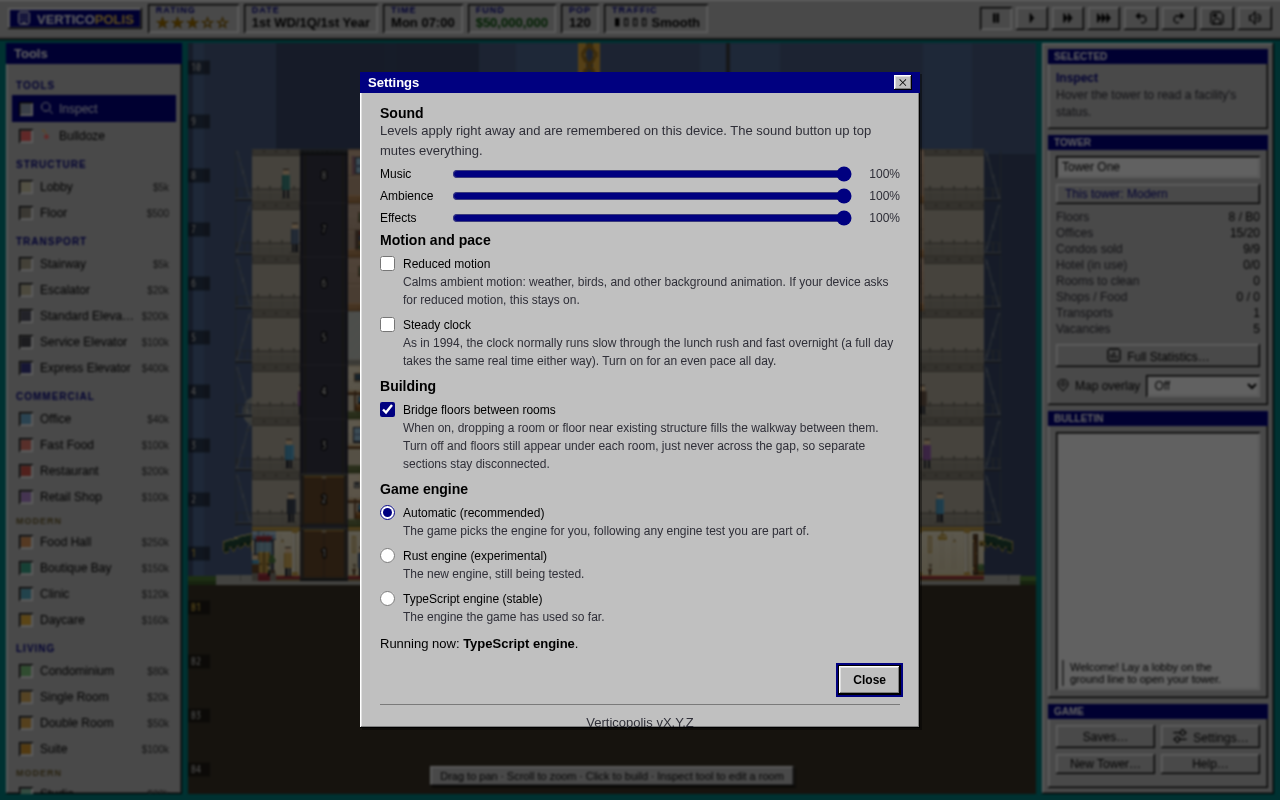
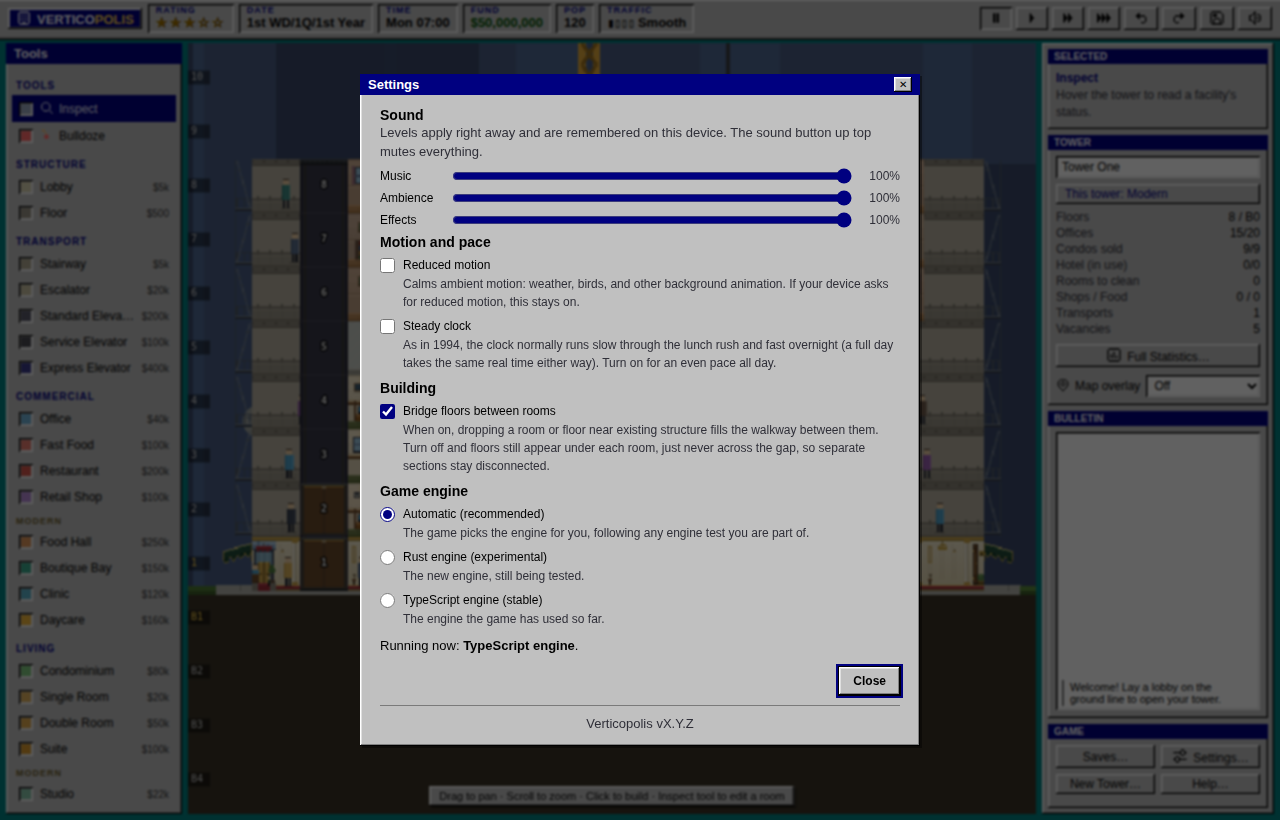
Fix settings screenshot clipping checks and refresh affected baselines

diff --git a/scripts/scenes/dialogPinShots.ts b/scripts/scenes/dialogPinShots.ts
@@ -22,35 +22,7 @@
  * nothing.
  */
 import { type Shot } from "../screenshot-env.ts";
-
-/** Assert the currently open Settings modal is fully visible inside its scroll
- *  box, so the Game engine section, status, Close action and the version line
- *  cannot silently clip out of the committed screenshot. The shot is rendering
- *  the actual modal box, not a larger page capture, so the test is purposely
- *  strict: every clinically relevant element must stay within the scrollport.
- */
-export function assertSettingsContentVisible(): void {
-  const box = document.querySelector("#modal .modal-box") as HTMLElement | null;
-  if (!box) throw new Error("the Settings dialog did not mount");
-  const boxRect = box.getBoundingClientRect();
-  const visible = [...document.querySelectorAll<HTMLElement>(
-    "#modal .modal-box h3, #modal .modal-box .set-engine, #modal .modal-box .set-engine-status, #modal .modal-box .modal-actions, #modal .modal-box .set-version",
-  )].filter((el) => {
-    const rect = el.getBoundingClientRect();
-    return rect.bottom > boxRect.top + 1 && rect.top < boxRect.bottom - 1;
-  });
-  const clipped = visible.filter((el) => {
-    const rect = el.getBoundingClientRect();
-    return rect.top < boxRect.top - 1 || rect.bottom > boxRect.bottom + 1;
-  });
-  if (clipped.length > 0) {
-    const first = clipped[0];
-    const rect = first.getBoundingClientRect();
-    throw new Error(
-      `Settings content clipped by the modal scrollport: ${first.tagName}.${first.className || ""} (top=${rect.top.toFixed(1)}, bottom=${rect.bottom.toFixed(1)}, box=${boxRect.top.toFixed(1)}..${boxRect.bottom.toFixed(1)})`,
-    );
-  }
-}
+import { pgAssertSettingsContentVisible } from "../screenshot-builders.ts";
 
 /**
  * Short enough that both dialogs overflow their 82vh cap with room to spare.
@@ -97,7 +69,6 @@ export const DIALOG_PIN_SHOTS: Shot[] = [
     setup: async (page) => {
       await page.evaluate(() => document.getElementById("btn-settings")?.click());
       await page.waitForSelector("#modal #vol-music", { timeout: 4000 });
-      await page.evaluate(assertSettingsContentVisible);
       await page.evaluate(() => {
         const box = document.querySelector("#modal .modal-box") as HTMLElement | null;
         const strip = document.querySelector("#modal .modal-box > .modal-actions") as HTMLElement | null;
@@ -105,11 +76,14 @@ export const DIALOG_PIN_SHOTS: Shot[] = [
         // The premise of the selector's second arm: something really does
         // follow the action row here.
         if (strip.nextElementSibling === null) throw new Error("Settings no longer renders anything after its action row; the shot has lost its subject");
-        box.scrollTop = Math.floor((box.scrollHeight - box.clientHeight) / 2);
+        // Keep the Settings Game engine row intact in the capture while still
+        // leaving enough content below the fold to prove the sticky footer rule.
+        box.scrollTop = Math.max(0, box.scrollHeight - box.clientHeight - strip.offsetHeight * 3);
         const left = box.scrollHeight - box.clientHeight - box.scrollTop;
         if (left <= strip.offsetHeight) throw new Error("Settings did not overflow enough for the pin to be doing anything");
         if (strip.getBoundingClientRect().bottom > box.getBoundingClientRect().bottom + 1) throw new Error("the Settings footer is not pinned; this shot would prove nothing");
       });
+      await page.evaluate(pgAssertSettingsContentVisible, "visible-only");
     },
     wait: 300,
   },

diff --git a/scripts/screenshot-page-ops.ts b/scripts/screenshot-page-ops.ts
@@ -61,6 +61,33 @@ export function pgMaskVersion(): void {
   });
 }
 
+/** Assert Settings modal content visibility for screenshot captures.
+ *  - `require-all`: every tracked Settings section must be fully visible.
+ *  - `visible-only`: tracked sections that are visible must not be clipped.
+ *  Runs in the browser via page.evaluate. */
+export function pgAssertSettingsContentVisible(mode: "require-all" | "visible-only" = "require-all"): void {
+  const box = document.querySelector("#modal .modal-box") as HTMLElement | null;
+  if (!box) throw new Error("the Settings dialog did not mount");
+  const boxRect = box.getBoundingClientRect();
+  const selectors = [".set-engine", ".set-engine-status", ".modal-actions", ".set-version"];
+  for (const selector of selectors) {
+    const el = box.querySelector(selector) as HTMLElement | null;
+    if (!el) throw new Error(`Settings is missing required content: ${selector}`);
+    const rect = el.getBoundingClientRect();
+    const visible = rect.bottom > boxRect.top + 1 && rect.top < boxRect.bottom - 1;
+    if (mode === "require-all" && !visible) {
+      throw new Error(
+        `Settings content is outside the captured modal viewport: ${selector} (top=${rect.top.toFixed(1)}, bottom=${rect.bottom.toFixed(1)}, box=${boxRect.top.toFixed(1)}..${boxRect.bottom.toFixed(1)})`,
+      );
+    }
+    if (visible && (rect.top < boxRect.top - 1 || rect.bottom > boxRect.bottom + 1)) {
+      throw new Error(
+        `Settings content clipped by the modal scrollport: ${selector} (top=${rect.top.toFixed(1)}, bottom=${rect.bottom.toFixed(1)}, box=${boxRect.top.toFixed(1)}..${boxRect.bottom.toFixed(1)})`,
+      );
+    }
+  }
+}
+
 // ---- In-page helpers (serialized into the browser by page.evaluate) ---------
 // These run in the browser off window.game; they cannot reference Node scope.
 

diff --git a/scripts/scenes/showcase.ts b/scripts/scenes/showcase.ts
@@ -6,6 +6,7 @@
  */
 import { type Scene, PHONE } from "../screenshot-env.ts";
 import {
+  pgAssertSettingsContentVisible,
   buildCanonTower,
   buildCrowdTower,
   buildEngineTower,
@@ -15,7 +16,7 @@ import {
   pgSetClock,
 } from "../screenshot-builders.ts";
 import { pgShowReturningSplash, pgShowTowerPicker } from "./returningPlayerPage.ts";
-import { assertSettingsContentVisible, DIALOG_PIN_SHOTS } from "./dialogPinShots.ts";
+import { DIALOG_PIN_SHOTS } from "./dialogPinShots.ts";
 
 export const SHOWCASE_SCENES: Scene[] = [
   // --- Showcase: first-run splash / onboarding (fresh, splash kept) ----------
@@ -87,7 +88,7 @@ export const SHOWCASE_SCENES: Scene[] = [
           // Guard on a Settings-only element: a bare #modal wait would be
           // satisfied by the Help dialog the previous shot leaves open.
           await page.waitForSelector("#modal #vol-music", { timeout: 4000 });
-          await page.evaluate(assertSettingsContentVisible);
+          await page.evaluate(pgAssertSettingsContentVisible, "require-all");
         },
         wait: 300,
       },
@@ -125,12 +126,14 @@ export const SHOWCASE_SCENES: Scene[] = [
       {
         name: "02b-settings-modern",
         keepDialogs: true,
+        viewport: { width: 1280, height: 820 },
         frame: { floor: 3, zoom: 1.2 },
         setup: async (page) => {
           await page.evaluate(() => document.getElementById("btn-settings")?.click());
           // Wait on the Modern-only Building toggle, not a bare #modal: it
           // proves the Modern Settings variant (with its extra section) mounted.
           await page.waitForSelector("#modal #set-auto-bridge", { timeout: 4000 });
+          await page.evaluate(pgAssertSettingsContentVisible, "require-all");
         },
         wait: 300,
       },

diff --git a/src/tests/integration/wasmRollback.ts b/src/tests/integration/wasmRollback.ts
@@ -20,6 +20,7 @@ export const RESTORED = "The Rust engine stopped, so the tower went back to its 
 export const REPLACED = "The Rust engine stopped, so the game runs on the TypeScript engine now.";
 export const LOST = "The Rust engine stopped, so some of your recent changes were lost. The game runs on the TypeScript engine now.";
 export const OLDER = "The Rust engine stopped, so the tower went back to an earlier good state. Your changes since then were undone and the undo history was cleared. The tower runs on the TypeScript engine now.";
+export const CLEARED = "The Rust engine stopped, so the undo history was cleared. The game runs on the TypeScript engine now.";
 export const SWAP_FAILED = "The Rust engine stopped, and the tower could not switch to the TypeScript engine, so it is frozen and changes to it are not saved. Load a save or start a new tower to keep playing.";
 
 /** GameApp as far as the host and the undo trail see it: its adopt, its

diff --git a/CHANGELOG.md b/CHANGELOG.md
@@ -13,11 +13,17 @@ Entries below 1.51.1 were curated from the commit history after the fact, so the
 are documentation only: a client only ever fetches the currently deployed build's
 notes, never a past version's.
 
+## 2.46.1
+
+- Keyboard bulldozing now tells screen readers when a facility could not be removed, instead of announcing a successful removal.
+
 ## 2.46.0
 
 - Settings has a new Game engine choice: Automatic, the Rust engine (experimental) or the TypeScript engine (stable). A change takes effect the next time the game starts.
 - The experimental engine is now called the Rust engine everywhere in the game.
 - If the Rust engine runs into a problem on your device, the game stays on the TypeScript engine until you choose to try it again in Settings.
+- On the opt-in WASM engine (`?engine=wasm`), an undo or a redo that meets an engine failure, when the last good state also fails to load, now clears the undo history and says so.
+- When that engine stops and the tower goes back to an earlier good state, the notice no longer says you made changes since then.
 
 ## 2.45.0
 
